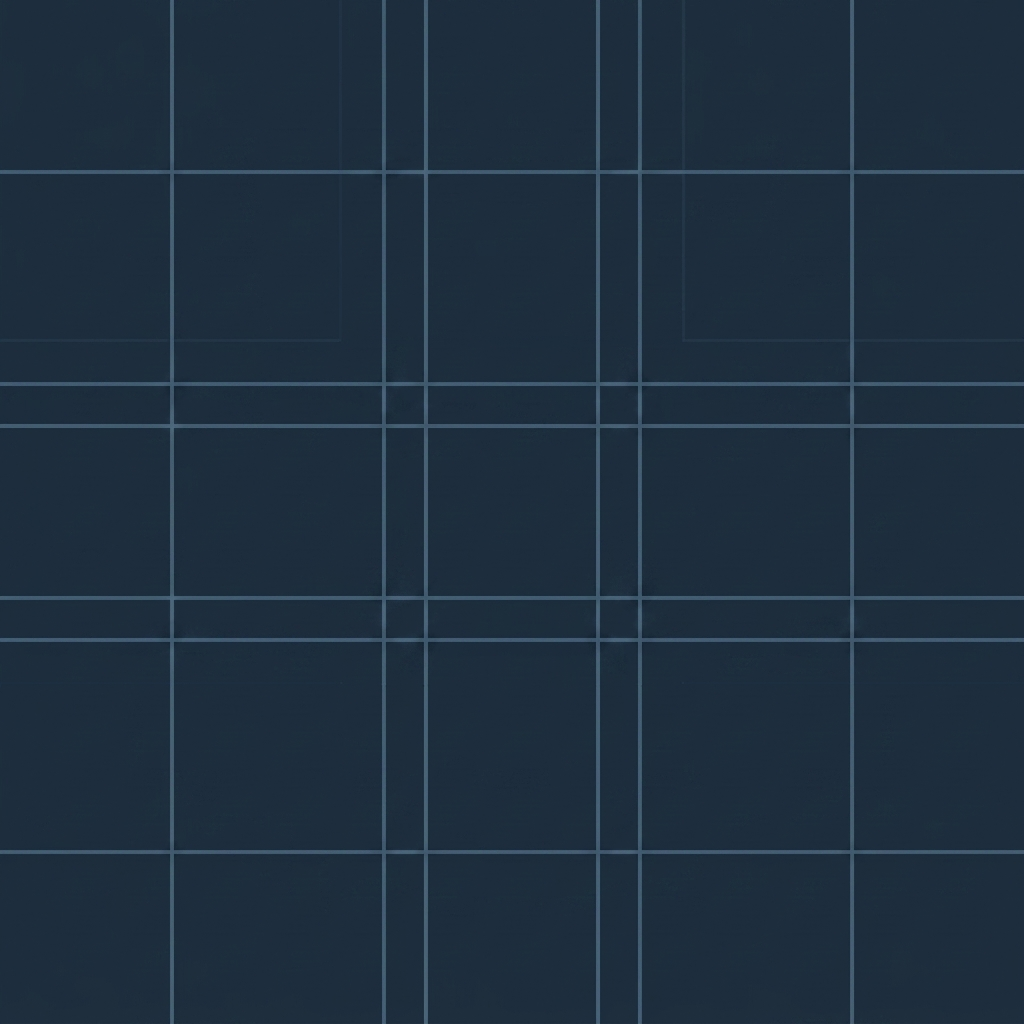
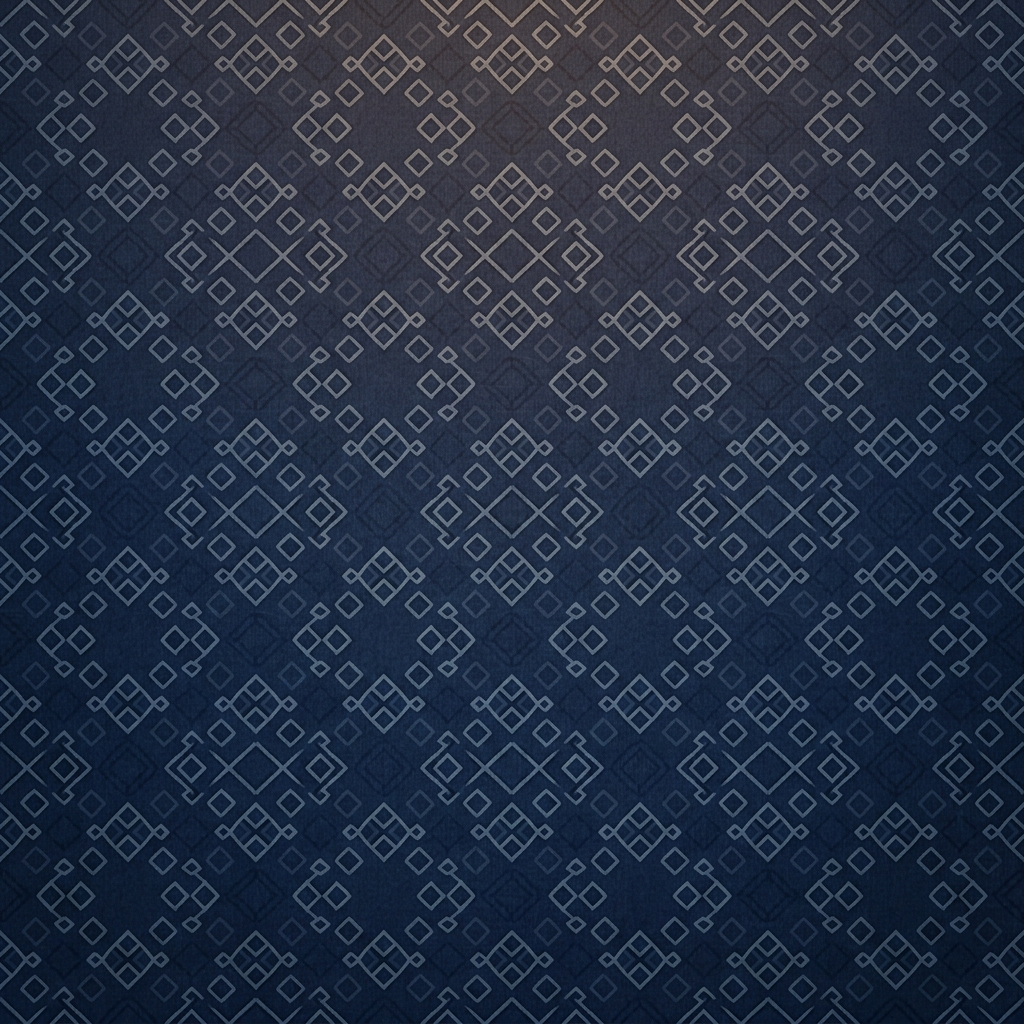
feat: implement procedural map renderer and furniture entity system with asset fallback support

Changed region(s): [[0.0, 0.0, 1.0, 1.0], [0.9062, 0.0, 1.0, 0.0938], [0.0, 0.0, 0.0938, 0.0938]]

diff --git a/src/entities/Furniture.ts b/src/entities/Furniture.ts
@@ -29,10 +29,94 @@ export class Furniture extends Phaser.GameObjects.Container {
       this.sprite = scene.add.image(0, 0, spriteKey).setDisplaySize(stats.radius * 2, stats.radius * 2);
       parts = [this.sprite];
     } else {
-      this.circle = scene.add.circle(0, 0, stats.radius, stats.color, 0.92);
-      this.circle.setStrokeStyle(2, 0xffffff, 0.35);
-      this.icon = scene.add.text(0, 0, stats.icon, { fontSize: `${Math.round(stats.radius * 1.1)}px` }).setOrigin(0.5);
-      parts = [this.circle, this.icon];
+      // ── Improved programmatic fallback ──────────────────────────────
+      // Draw shaped furniture instead of generic circles
+      const gfx = scene.add.graphics();
+      const r = stats.radius;
+
+      if (type === 'cabinet') {
+        // Tall rectangular filing cabinet (top-down view)
+        const w = r * 1.2;
+        const h = r * 1.8;
+        // Shadow
+        gfx.fillStyle(0x000000, 0.2);
+        gfx.fillRoundedRect(-w / 2 + 3, -h / 2 + 3, w, h, 4);
+        // Body
+        gfx.fillStyle(stats.color);
+        gfx.fillRoundedRect(-w / 2, -h / 2, w, h, 4);
+        // Highlight edge
+        gfx.fillStyle(0xffffff, 0.12);
+        gfx.fillRoundedRect(-w / 2, -h / 2, w, h * 0.15, { tl: 4, tr: 4, bl: 0, br: 0 });
+        // Drawer lines
+        gfx.lineStyle(1, 0x000000, 0.25);
+        for (let i = 1; i < 4; i++) {
+          const ly = -h / 2 + (h / 4) * i;
+          gfx.lineBetween(-w / 2 + 4, ly, w / 2 - 4, ly);
+        }
+        // Handles
+        gfx.fillStyle(0xc0c0c0, 0.7);
+        for (let i = 0; i < 4; i++) {
+          const ly = -h / 2 + (h / 4) * (i + 0.5);
+          gfx.fillRect(-3, ly - 2, 6, 3);
+        }
+        gfx.lineStyle(2, 0x3d2a1a, 0.6);
+        gfx.strokeRoundedRect(-w / 2, -h / 2, w, h, 4);
+
+      } else if (type === 'drawer') {
+        // Small bedside table / nightstand (top-down, squarish)
+        const s = r * 1.5;
+        // Shadow
+        gfx.fillStyle(0x000000, 0.2);
+        gfx.fillRoundedRect(-s / 2 + 2, -s / 2 + 2, s, s, 3);
+        // Body
+        gfx.fillStyle(stats.color);
+        gfx.fillRoundedRect(-s / 2, -s / 2, s, s, 3);
+        // Highlight
+        gfx.fillStyle(0xffffff, 0.15);
+        gfx.fillRoundedRect(-s / 2, -s / 2, s, s * 0.2, { tl: 3, tr: 3, bl: 0, br: 0 });
+        // Drawer lines
+        gfx.lineStyle(1, 0x000000, 0.2);
+        gfx.lineBetween(-s / 2 + 3, 0, s / 2 - 3, 0);
+        // Handle
+        gfx.fillStyle(0xc0c0c0, 0.6);
+        gfx.fillRect(-3, -4, 6, 3);
+        gfx.fillRect(-3, 3, 6, 3);
+        gfx.lineStyle(2, 0x5a4530, 0.5);
+        gfx.strokeRoundedRect(-s / 2, -s / 2, s, s, 3);
+
+      } else if (type === 'sofa') {
+        // Sofa (top-down, wide rectangle with armrests)
+        const w = r * 2.2;
+        const h = r * 1.2;
+        const armW = w * 0.12;
+        // Shadow
+        gfx.fillStyle(0x000000, 0.2);
+        gfx.fillRoundedRect(-w / 2 + 3, -h / 2 + 3, w, h, 6);
+        // Main cushion
+        gfx.fillStyle(stats.color);
+        gfx.fillRoundedRect(-w / 2 + armW, -h / 2, w - armW * 2, h, 4);
+        // Left armrest
+        gfx.fillStyle(Phaser.Display.Color.ValueToColor(stats.color).darken(15).color);
+        gfx.fillRoundedRect(-w / 2, -h / 2, armW + 2, h, { tl: 6, tr: 0, bl: 6, br: 0 });
+        // Right armrest
+        gfx.fillRoundedRect(w / 2 - armW - 2, -h / 2, armW + 2, h, { tl: 0, tr: 6, bl: 0, br: 6 });
+        // Backrest (top strip)
+        gfx.fillStyle(Phaser.Display.Color.ValueToColor(stats.color).darken(10).color);
+        gfx.fillRoundedRect(-w / 2 + armW, -h / 2, w - armW * 2, h * 0.3, { tl: 4, tr: 4, bl: 0, br: 0 });
+        // Cushion divider
+        gfx.lineStyle(1, 0x000000, 0.15);
+        gfx.lineBetween(-w * 0.12, -h / 2 + h * 0.3, -w * 0.12, h / 2 - 2);
+        gfx.lineBetween(w * 0.12, -h / 2 + h * 0.3, w * 0.12, h / 2 - 2);
+        // Highlight
+        gfx.fillStyle(0xffffff, 0.08);
+        gfx.fillRoundedRect(-w / 2 + armW, -h / 2 + h * 0.3, w - armW * 2, h * 0.15, 0);
+        // Outline
+        gfx.lineStyle(2, 0x2c5570, 0.4);
+        gfx.strokeRoundedRect(-w / 2, -h / 2, w, h, 6);
+      }
+
+      this.icon = scene.add.text(0, 0, stats.icon, { fontSize: `${Math.round(stats.radius * 0.7)}px` }).setOrigin(0.5);
+      parts = [gfx, this.icon];
     }
 
     this.add(parts);

diff --git a/src/rendering/MapRenderer.ts b/src/rendering/MapRenderer.ts
@@ -58,28 +58,22 @@ export function drawMap(scene: Phaser.Scene): Map<DoorDef, Phaser.GameObjects.Im
   } else {
     gfx.fillStyle(PAL.wallFill);
     gfx.fillRect(0, OFFICE_Y_BOTTOM, GAME_WIDTH, GAME_HEIGHT - OFFICE_Y_BOTTOM);
+    // Baseboard at top of bottom wall
+    gfx.fillStyle(PAL.wallBaseboard);
+    gfx.fillRect(0, OFFICE_Y_BOTTOM, GAME_WIDTH, 5);
   }
 
   // ── Petya's office (the battlefield) ────────────────────────────────
   if (scene.textures.exists('tile-office-floor')) {
     scene.add.tileSprite(0, OFFICE_Y_TOP, GAME_WIDTH, OFFICE_Y_BOTTOM - OFFICE_Y_TOP, 'tile-office-floor').setOrigin(0, 0);
   } else {
-    gfx.fillStyle(PAL.floorBase, 0.95);
+    // Plain dark floor — no grid lines (they looked like Excel)
+    gfx.fillStyle(PAL.floorBase);
     gfx.fillRect(0, OFFICE_Y_TOP, GAME_WIDTH, OFFICE_Y_BOTTOM - OFFICE_Y_TOP);
-
-    // Placeholder floor tile grid
-    gfx.lineStyle(1, PAL.floorGrid, 0.3);
-    const tileSize = 48;
-    for (let x = 0; x < GAME_WIDTH; x += tileSize) {
-      gfx.lineBetween(x, OFFICE_Y_TOP, x, OFFICE_Y_BOTTOM);
-    }
-    for (let y = OFFICE_Y_TOP; y <= OFFICE_Y_BOTTOM; y += tileSize) {
-      gfx.lineBetween(0, y, GAME_WIDTH, y);
-    }
   }
 
-  // ── Wall-floor junction shadow (soft transition, not a harsh line) ──
-  // Drop-shadow below the wall to give depth
+  // ── Wall-floor junction shadows (soft transitions for depth) ────────
+  // Top wall → floor shadow
   const shadowGfx = scene.add.graphics();
   shadowGfx.fillStyle(PAL.borderShadow, 0.5);
   shadowGfx.fillRect(0, OFFICE_Y_TOP, GAME_WIDTH, 4);
@@ -88,9 +82,11 @@ export function drawMap(scene: Phaser.Scene): Map<DoorDef, Phaser.GameObjects.Im
   shadowGfx.fillStyle(PAL.borderShadow, 0.1);
   shadowGfx.fillRect(0, OFFICE_Y_TOP + 8, GAME_WIDTH, 4);
 
-  // Bottom boundary — subtle line only
-  gfx.lineStyle(2, PAL.borderShadow, 0.4);
-  gfx.lineBetween(0, OFFICE_Y_BOTTOM, GAME_WIDTH, OFFICE_Y_BOTTOM);
+  // Floor → bottom wall shadow
+  shadowGfx.fillStyle(PAL.borderShadow, 0.3);
+  shadowGfx.fillRect(0, OFFICE_Y_BOTTOM - 4, GAME_WIDTH, 4);
+  shadowGfx.fillStyle(PAL.borderShadow, 0.15);
+  shadowGfx.fillRect(0, OFFICE_Y_BOTTOM - 8, GAME_WIDTH, 4);
 
   // ── Spawn doors ───────────────────────────────────────────────────
   // Doors are positioned so their bottom edge sits exactly at the

diff --git a/src/config.ts b/src/config.ts
@@ -150,9 +150,9 @@ export interface FurnitureTypeStats {
 export const FURNITURE_TYPE_KEYS: readonly FurnitureType[] = ['cabinet', 'drawer', 'sofa'];
 
 export const FURNITURE_TYPES_DATA: Record<FurnitureType, FurnitureTypeStats> = {
-  cabinet: { label: 'Шкаф',     icon: '🗄️', color: 0x795548, radius: 34, maxCount: 5 },
-  drawer:  { label: 'Тумбочка', icon: '🗃️', color: 0xa1887f, radius: 25, maxCount: 6 },
-  sofa:    { label: 'Диван',    icon: '🛋️', color: 0x8e44ad, radius: 38, maxCount: 3 },
+  cabinet: { label: 'Шкаф',     icon: '🗄️', color: 0x5a3f2b, radius: 34, maxCount: 5 },
+  drawer:  { label: 'Тумбочка', icon: '🗃️', color: 0x8b6b4a, radius: 25, maxCount: 6 },
+  sofa:    { label: 'Диван',    icon: '🛋️', color: 0x4a7a9b, radius: 38, maxCount: 3 },
 };
 
 /** How long a coworker sits on a sofa before standing back up and continuing */